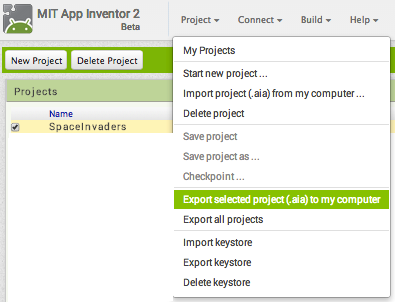
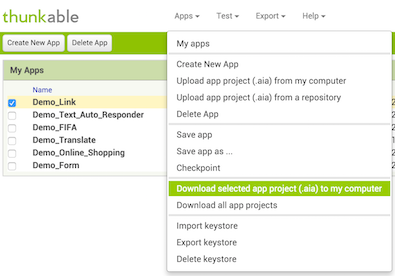
Updated Packaging and Sharing docs.

diff --git a/explore/ai2/google-play.html b/explore/ai2/google-play.html
@@ -18,7 +18,7 @@
 <link rel="shortlink" href="../node/435.html" />
 <link rel="canonical" href="google-play.html" />
 <meta name="Generator" content="Drupal 7 (http://drupal.org)" />
-  <title>Publishing Apps to Google Play (App Inventor 2) | Explore MIT App Inventor</title>
+  <title>Publishing Apps to Google Play with Thunkable | Explore Thunkable</title>
   <style>
 @import url("../modules/system/system.base0021.css?o1obu1");
 @import url("../modules/system/system.menus0021.css?o1obu1");
@@ -109,74 +109,7 @@
     <div id="page" class="container">
 
   
-  <header class="clearfix" role="banner">
-
-  <div id="top_bar">
-   <div id="branding">
-      <!--        <hgroup>
-                      <h1 id="site-name"><a href="/" title="Home page">Explore MIT App Inventor</a></h1>
-                            </hgroup>
-      -->
-              <div id="logo"><a href="../index-2.html" title="Home page"><img src="../sites/all/themes/appinventor/logo.png" alt="Explore MIT App Inventor logo"/></a></div>
-          
-    </div>
-      <div id="menu-bar" class="nav clearfix">
-      <nav id="block-superfish-1" class="block block-superfish block-odd block-count-1 block-region-menu-bar menu-wrapper clearfix" role="navigation">
-              <h2 class="block-title element-invisible element-invisible">! ACTIVE AI 2 MAIN MENU</h2>
-            <ul id="superfish-1" class="menu sf-menu sf-menu-simple-nav sf-horizontal sf-style-none sf-total-items-3 sf-parent-items-3 sf-single-items-0"><li id="menu-4230-1" class="first odd sf-item-1 sf-depth-1 sf-list-anchors sf-total-children-4 sf-parent-children-0 sf-single-children-4 menuparent"><a href="../about-us.html" title="" class="sf-depth-1 menuparent">About ▾</a><ul><li id="menu-4231-1" class="first odd sf-item-1 sf-depth-2 sf-list-anchors sf-no-children"><a href="../about-us.html" title="" class="sf-depth-2">About Us  </a></li><li id="menu-4234-1" class="middle even sf-item-2 sf-depth-2 sf-list-anchors sf-no-children"><a href="../our-team.html" title="" class="sf-depth-2">Our Team</a></li><li id="menu-5013-1" class="middle odd sf-item-3 sf-depth-2 sf-list-anchors sf-no-children"><a href="../research.html" title="Research related to MIT App Inventor" class="sf-depth-2">Research</a></li><li id="menu-4233-1" class="last even sf-item-4 sf-depth-2 sf-list-anchors sf-no-children"><a href="../sponsors.html" title="" class="sf-depth-2">Sponsors</a></li></ul></li><li id="menu-2893-1" class="middle even sf-item-2 sf-depth-1 sf-list-anchors sf-total-children-4 sf-parent-children-0 sf-single-children-4 menuparent"><a href="../news-events.html" title="" class="sf-depth-1 menuparent">News &amp; Stories ▾</a><ul><li id="menu-3040-1" class="first odd sf-item-1 sf-depth-2 sf-list-anchors sf-no-children"><a href="../news-events.html" title="" class="sf-depth-2">In The News</a></li><li id="menu-3039-1" class="middle even sf-item-2 sf-depth-2 sf-list-anchors sf-no-children"><a href="../stories.html" title="" class="sf-depth-2">Stories</a></li><li id="menu-4429-1" class="middle odd sf-item-3 sf-depth-2 sf-list-anchors sf-no-children"><a href="../team-blog.html" title="" class="sf-depth-2">Team Blog</a></li><li id="menu-4074-1" class="last even sf-item-4 sf-depth-2 sf-list-anchors sf-no-children"><a href="../app-month-gallery.html" title="Information about the App of the Month Program" class="sf-depth-2">App of the Month</a></li></ul></li><li id="menu-2894-1" class="last odd sf-item-3 sf-depth-1 sf-list-anchors sf-total-children-9 sf-parent-children-0 sf-single-children-9 menuparent"><a href="../resources.html" title="" class="sf-depth-1 menuparent">Resources ▾</a><ul><li id="menu-3041-1" class="first odd sf-item-1 sf-depth-2 sf-list-anchors sf-no-children"><a href="../get-started.html" title="" class="sf-depth-2">Get Started</a></li><li id="menu-3783-1" class="middle even sf-item-2 sf-depth-2 sf-list-anchors sf-no-children"><a href="../teach.html" title="" class="sf-depth-2">Teach</a></li><li id="menu-3104-1" class="middle odd sf-item-3 sf-depth-2 sf-list-anchors sf-no-children"><a href="../library.html" title="" class="sf-depth-2">Documentation</a></li><li id="menu-3036-1" class="middle even sf-item-4 sf-depth-2 sf-list-anchors sf-no-children"><a href="tutorials.html" title="Tutorials to learn about using MIT App Inventor" class="sf-depth-2">Tutorials</a></li><li id="menu-3174-1" class="middle odd sf-item-5 sf-depth-2 sf-list-anchors sf-no-children"><a href="../support.html" title="Information about App Inventor version 1" class="sf-depth-2">AI Classic (v1)</a></li><li id="menu-5012-1" class="middle even sf-item-6 sf-depth-2 sf-list-anchors sf-no-children"><a href="../books.html" title="" class="sf-depth-2">Books</a></li><li id="menu-3038-1" class="middle odd sf-item-7 sf-depth-2 sf-list-anchors sf-no-children"><a href="../resources.html" title="" class="sf-depth-2">Resources</a></li><li id="menu-3037-1" class="middle even sf-item-8 sf-depth-2 sf-list-anchors sf-no-children"><a href="https://groups.google.com/forum/#!forum/mitappinventortest" title="" class="sf-depth-2">Forums</a></li><li id="menu-3105-1" class="last odd sf-item-9 sf-depth-2 sf-list-anchors sf-no-children"><a href="support/troubleshooting.html" title="" class="sf-depth-2">Troubleshooting</a></li></ul></li></ul>  </nav>
-  </div>
-      <div class="region region-create">
-    <section id="block-block-21" class="block block-block block-odd block-count-2 block-region-create">
-  <div class="block-inner clearfix">
-              <h2 class="block-title">Create Button</h2>
-            <div class="block-content content">
-      <p><a href="http://ai2.appinventor.mit.edu/" target="new"><button style="font-size:120%">Create apps!</button></a></p>
-    </div>
-  </div>
-</section>
-  </div>
-    </div>
-      <div class="region region-header">
-    <section id="block-block-23" class="block block-block block-odd block-count-3 block-region-header">
-  <div class="block-inner clearfix">
-              <h2 class="block-title">Social Icons</h2>
-            <div class="block-content content">
-      <p style="float:left;margin: 10px 7px;"><a href="https://www.facebook.com/MITAppInventor"><img src="../sites/all/themes/appinventor/assets/images/flatSocialMediaIcons/facebook.png" style="width:25px;" /></a>    <a href="https://plus.google.com/communities/109900432278954380687"><img src="../sites/all/themes/appinventor/assets/images/flatSocialMediaIcons/google%2b.png" style="width:25px;" /></a>    <a href="https://twitter.com/mitappinventor"><img src="../sites/all/themes/appinventor/assets/images/flatSocialMediaIcons/twitter.png" style="width:25px;" /></a>    <a href="https://www.youtube.com/mitappinventor"><img src="../sites/all/themes/appinventor/assets/images/flatSocialMediaIcons/youtube.png" style="width:25px;" /></a>    <a href="https://groups.google.com/forum/#!forum/mitappinventortest"><img src="../sites/all/themes/appinventor/assets/images/flatSocialMediaIcons/googlegroups.png" style="width:25px;" /></a>    <a href="http://www.weibo.com/mitappinventor"><img src="../sites/all/themes/appinventor/assets/images/flatSocialMediaIcons/soc-wb.png" style="width:25px;" /></a>    <a href="http://mp.weixin.qq.com/s?__biz=MzAxODE1NTc1MQ==&amp;mid=201968203&amp;idx=1&amp;sn=01f8946b01a98b63e97e201a812dc844#rd"><img src="../sites/all/themes/appinventor/assets/images/flatSocialMediaIcons/soc-wc.png" style="width:25px;" /></a></p>
-    </div>
-  </div>
-</section>
-<div id="block-block-7" class="block block-block block-even block-count-4 block-region-header">
-  <div class="block-inner clearfix">
-                <div class="block-content content no-title">
-      
-<script>
-  (function() {
-    var cx = '005719495929270354943:tlvxrelje-e';
-    var gcse = document.createElement('script');
-    gcse.type = 'text/javascript';
-    gcse.async = true;
-    gcse.src = (document.location.protocol == 'https:' ? 'https:' : 'http:') +
-        '//www.google.com/cse/cse.js?cx=' + cx;
-    var s = document.getElementsByTagName('script')[0];
-    s.parentNode.insertBefore(gcse, s);
-  })();
-</script>
-<gcse:searchbox-only></gcse:searchbox-only>
-    </div>
-  </div>
-</div>
-<section id="block-block-31" class="block block-block block-odd block-count-5 block-region-header">
-  <div class="block-inner clearfix">
-              <h2 class="block-title">Top Headline Block</h2>
-            <div class="block-content content">
-      <p></p><center><strong><font size="3">App Inventor is now in <a href="../blogs/josh/2016/01/mit-0.html"><font color="#FEFE00">Brazilian</font> <font color="#007600">Portuguese!</font></a></font></strong></center>
-    </div>
-  </div>
-</section>
-  </div>
-    
-
-  </header>
+ <!--header goes here-->
   <div id="featured-block">
     </div>
   <div id="columns"class="no-menu-bar"><div class="columns-inner clearfix">
@@ -200,14 +133,14 @@
 
       
               <h1 class="article-title">
-                      Publishing Apps to Google Play (App Inventor 2)                  </h1>
+                      Publishing Apps to Google Play with Thunkable                 </h1>
       
       
     </header>
-    <span property="dc:title" content="Publishing Apps to Google Play (App Inventor 2)" class="rdf-meta element-hidden"></span>
+    <span property="dc:title" content="Publishing Apps to Google Play with Thunkable" class="rdf-meta element-hidden"></span>
   <div class="article-content">
   <div class="field field-name-body field-type-text-with-summary field-label-hidden view-mode-full"><div class="field-items"><div class="field-item even" property="content:encoded"><h2 class="ai-header">Uploading Apps to Google Play</h2>
-<p>Applications built with App Inventor can be uploaded to Google Play!</p>
+<p>Applications built with Thunkable can be uploaded to Google Play!</p>
 <h4 class="ai-header">Version Your App</h4>
 <p>Every app you publish must have a <code style="font-size: 12px;">VersionCode</code> and a <code style="font-size: 12px;">VersionName</code>. You can set these in the designer under the properties panel for the <code style="font-size: 12px;">Screen1</code> component.</p>
 <p><code style="font-size: 12px;">VersionCode</code> is an integer value that will not be visible to Google Play Store users. It is used by other apps to check if your app has been upgraded or downgraded. It defaults to 1 and should be increased by one with every successive change whether it is a major change or a minor change.</p>
@@ -215,7 +148,7 @@
 <p>You will need to increase the VersionCode and change the VersionName of your application when you upload a new version to the Play Store.</p>
 <h4 class="ai-header">Download <code style="font-size: 14px;">.apk</code></h4>
 <p>Once you are done making your app, you can download your Android .apk file as follows:</p>
-<ol><li>Navigate to the home screen of the app you want to download in App Inventor</li>
+<ol><li>Navigate to the home screen of the app you want to download in Thunkable</li>
 <li>Click the dropdown labled “Package for phone”</li>
 <li>Click “Download to This Computer”</li>
 </ol><p>This will prompt you to save the application somewhere. Once you have the .apk downloaded, you are ready to begin the publishing process.</p>
@@ -224,12 +157,12 @@
 <p>For more details, you may want to start with <a href="http://developer.android.com/guide/publishing/publishing.html">Introduction to Publishing on Google Play</a> and <a href="https://support.google.com/googleplay/android-developer/bin/answer.py?hl=en&amp;answer=113469&amp;topic=2365624&amp;ctx=topic">Google Support on Uploading to Google Play</a>.</p>
 <h4 class="ai-header">A Word about Backups</h4>
 <p>Once you publish your application in the Google Play Store, other people will now be depending upon you to fix bugs and otherwise maintain your application. It is therefore very important that you backup your application's source code. To do this, click on "Project--&gt;My Projects", check the box next to the name of your project and then select "Project--&gt;Export selected project (.aia) to my computer." This will download a zip file which contains your projects source code. Store it in a safe place!</p>
-<p>MIT and Google, which operate the App Engine service on which MIT App Inventor relies, make best efforts to ensure that MIT App Inventor does not lose projects. HOWEVER WE CAN OFFER NO GUARANTEE THAT DATA (LIKE YOUR PROJECTS) WILL NEVER BE LOST. IT IS IMPERATIVE THAT YOU MAKE YOUR OWN BACKUPS!</p>
+<p>Thunkable and Google, which operate the App Engine service on which Thunkable relies, make best efforts to ensure that Thunkable does not lose projects. HOWEVER WE CAN OFFER NO GUARANTEE THAT DATA (LIKE YOUR PROJECTS) WILL NEVER BE LOST. IT IS IMPERATIVE THAT YOU MAKE YOUR OWN BACKUPS!</p>
 <p><b>A Word about keystores:</b></p>
 <p>During the .apk building process your application is signed with a digital private key which is associated with your account. Whenever you build a new version this same key is used to sign the new version. When an android phone has an application installed on it, it remembers the key that was used to sign it. In order to install an updated version of an application, the new application must be signed by the same key. It is therefore important that you not lose this key!</p>
-<p>Your private digital key is stored in a keystore file. Normally the MIT App Inventor server will create this file when needed and store it for you so you do not need to worry about it. Although we do not anticipate losing your keystore file, we recommend that you back it up. From the designer under the "Projects" menu there is a choice labeled "Export Keystore". Select this option. This will download your keystore file to your local computer. Save it in a safe place. It should not be publicly readable as your private digital key is a secret which should not be shared.</p>
-<p>If you move your project to another App Inventor server, you will want to upload your keystore to that server (you will see that under "Projects" there is a "Import Keystore" option as well). You only need to do this if you are publishing .apk files to Google Play or if you intend to share your application with other people in general.</p>
-<p>IF YOUR keyfile IS LOST OR DELETED IT CANNOT BE RECOVERED. If you were to lose your project's source code, you could always re-enter it from scratch (this may be a lot of work, but is something you can do). NEITHER YOU NOR MIT CAN RECOVER A LOST keyfile. NO AMOUNT OF EFFORT WILL RECOVER IT, SO BE SURE TO BACK IT UP!!!</p>
+<p>Your private digital key is stored in a keystore file. Normally the Thunkable server will create this file when needed and store it for you so you do not need to worry about it. Although we do not anticipate losing your keystore file, we recommend that you back it up. From the designer under the "Projects" menu there is a choice labeled "Export Keystore". Select this option. This will download your keystore file to your local computer. Save it in a safe place. It should not be publicly readable as your private digital key is a secret which should not be shared.</p>
+<p>If you move your project to another Thunkable server, you will want to upload your keystore to that server (you will see that under "Projects" there is a "Import Keystore" option as well). You only need to do this if you are publishing .apk files to Google Play or if you intend to share your application with other people in general.</p>
+<p>IF YOUR keyfile IS LOST OR DELETED IT CANNOT BE RECOVERED. If you were to lose your project's source code, you could always re-enter it from scratch (this may be a lot of work, but is something you can do). NEITHER YOU NOR THUNKABLE CAN RECOVER A LOST keyfile. NO AMOUNT OF EFFORT WILL RECOVER IT, SO BE SURE TO BACK IT UP!!!</p>
 </div></div></div>  </div>
 
   

diff --git a/explore/ai2/share.html b/explore/ai2/share.html
@@ -18,7 +18,7 @@
 <link rel="shortlink" href="../node/425.html" />
 <link rel="canonical" href="share.html" />
 <meta name="Generator" content="Drupal 7 (http://drupal.org)" />
-  <title>Sharing and Packaging Apps | Explore MIT App Inventor</title>
+  <title>Sharing and Packaging Apps | Explore Thunkable</title>
   <style>
 @import url("../modules/system/system.base0021.css?o1obu1");
 @import url("../modules/system/system.menus0021.css?o1obu1");
@@ -108,75 +108,6 @@
   </div>
     <div id="page" class="container">
 
-  
-  <header class="clearfix" role="banner">
-
-  <div id="top_bar">
-   <div id="branding">
-      <!--        <hgroup>
-                      <h1 id="site-name"><a href="/" title="Home page">Explore MIT App Inventor</a></h1>
-                            </hgroup>
-      -->
-              <div id="logo"><a href="../index-2.html" title="Home page"><img src="../sites/all/themes/appinventor/logo.png" alt="Explore MIT App Inventor logo"/></a></div>
-          
-    </div>
-      <div id="menu-bar" class="nav clearfix">
-      <nav id="block-superfish-1" class="block block-superfish block-odd block-count-1 block-region-menu-bar menu-wrapper clearfix" role="navigation">
-              <h2 class="block-title element-invisible element-invisible">! ACTIVE AI 2 MAIN MENU</h2>
-            <ul id="superfish-1" class="menu sf-menu sf-menu-simple-nav sf-horizontal sf-style-none sf-total-items-3 sf-parent-items-3 sf-single-items-0"><li id="menu-4230-1" class="first odd sf-item-1 sf-depth-1 sf-list-anchors sf-total-children-4 sf-parent-children-0 sf-single-children-4 menuparent"><a href="../about-us.html" title="" class="sf-depth-1 menuparent">About ▾</a><ul><li id="menu-4231-1" class="first odd sf-item-1 sf-depth-2 sf-list-anchors sf-no-children"><a href="../about-us.html" title="" class="sf-depth-2">About Us  </a></li><li id="menu-4234-1" class="middle even sf-item-2 sf-depth-2 sf-list-anchors sf-no-children"><a href="../our-team.html" title="" class="sf-depth-2">Our Team</a></li><li id="menu-5013-1" class="middle odd sf-item-3 sf-depth-2 sf-list-anchors sf-no-children"><a href="../research.html" title="Research related to MIT App Inventor" class="sf-depth-2">Research</a></li><li id="menu-4233-1" class="last even sf-item-4 sf-depth-2 sf-list-anchors sf-no-children"><a href="../sponsors.html" title="" class="sf-depth-2">Sponsors</a></li></ul></li><li id="menu-2893-1" class="middle even sf-item-2 sf-depth-1 sf-list-anchors sf-total-children-4 sf-parent-children-0 sf-single-children-4 menuparent"><a href="../news-events.html" title="" class="sf-depth-1 menuparent">News &amp; Stories ▾</a><ul><li id="menu-3040-1" class="first odd sf-item-1 sf-depth-2 sf-list-anchors sf-no-children"><a href="../news-events.html" title="" class="sf-depth-2">In The News</a></li><li id="menu-3039-1" class="middle even sf-item-2 sf-depth-2 sf-list-anchors sf-no-children"><a href="../stories.html" title="" class="sf-depth-2">Stories</a></li><li id="menu-4429-1" class="middle odd sf-item-3 sf-depth-2 sf-list-anchors sf-no-children"><a href="../team-blog.html" title="" class="sf-depth-2">Team Blog</a></li><li id="menu-4074-1" class="last even sf-item-4 sf-depth-2 sf-list-anchors sf-no-children"><a href="../app-month-gallery.html" title="Information about the App of the Month Program" class="sf-depth-2">App of the Month</a></li></ul></li><li id="menu-2894-1" class="last odd sf-item-3 sf-depth-1 sf-list-anchors sf-total-children-9 sf-parent-children-0 sf-single-children-9 menuparent"><a href="../resources.html" title="" class="sf-depth-1 menuparent">Resources ▾</a><ul><li id="menu-3041-1" class="first odd sf-item-1 sf-depth-2 sf-list-anchors sf-no-children"><a href="../get-started.html" title="" class="sf-depth-2">Get Started</a></li><li id="menu-3783-1" class="middle even sf-item-2 sf-depth-2 sf-list-anchors sf-no-children"><a href="../teach.html" title="" class="sf-depth-2">Teach</a></li><li id="menu-3104-1" class="middle odd sf-item-3 sf-depth-2 sf-list-anchors sf-no-children"><a href="../library.html" title="" class="sf-depth-2">Documentation</a></li><li id="menu-3036-1" class="middle even sf-item-4 sf-depth-2 sf-list-anchors sf-no-children"><a href="tutorials.html" title="Tutorials to learn about using MIT App Inventor" class="sf-depth-2">Tutorials</a></li><li id="menu-3174-1" class="middle odd sf-item-5 sf-depth-2 sf-list-anchors sf-no-children"><a href="../support.html" title="Information about App Inventor version 1" class="sf-depth-2">AI Classic (v1)</a></li><li id="menu-5012-1" class="middle even sf-item-6 sf-depth-2 sf-list-anchors sf-no-children"><a href="../books.html" title="" class="sf-depth-2">Books</a></li><li id="menu-3038-1" class="middle odd sf-item-7 sf-depth-2 sf-list-anchors sf-no-children"><a href="../resources.html" title="" class="sf-depth-2">Resources</a></li><li id="menu-3037-1" class="middle even sf-item-8 sf-depth-2 sf-list-anchors sf-no-children"><a href="https://groups.google.com/forum/#!forum/mitappinventortest" title="" class="sf-depth-2">Forums</a></li><li id="menu-3105-1" class="last odd sf-item-9 sf-depth-2 sf-list-anchors sf-no-children"><a href="support/troubleshooting.html" title="" class="sf-depth-2">Troubleshooting</a></li></ul></li></ul>  </nav>
-  </div>
-      <div class="region region-create">
-    <section id="block-block-21" class="block block-block block-odd block-count-2 block-region-create">
-  <div class="block-inner clearfix">
-              <h2 class="block-title">Create Button</h2>
-            <div class="block-content content">
-      <p><a href="http://ai2.appinventor.mit.edu/" target="new"><button style="font-size:120%">Create apps!</button></a></p>
-    </div>
-  </div>
-</section>
-  </div>
-    </div>
-      <div class="region region-header">
-    <section id="block-block-23" class="block block-block block-odd block-count-3 block-region-header">
-  <div class="block-inner clearfix">
-              <h2 class="block-title">Social Icons</h2>
-            <div class="block-content content">
-      <p style="float:left;margin: 10px 7px;"><a href="https://www.facebook.com/MITAppInventor"><img src="../sites/all/themes/appinventor/assets/images/flatSocialMediaIcons/facebook.png" style="width:25px;" /></a>    <a href="https://plus.google.com/communities/109900432278954380687"><img src="../sites/all/themes/appinventor/assets/images/flatSocialMediaIcons/google%2b.png" style="width:25px;" /></a>    <a href="https://twitter.com/mitappinventor"><img src="../sites/all/themes/appinventor/assets/images/flatSocialMediaIcons/twitter.png" style="width:25px;" /></a>    <a href="https://www.youtube.com/mitappinventor"><img src="../sites/all/themes/appinventor/assets/images/flatSocialMediaIcons/youtube.png" style="width:25px;" /></a>    <a href="https://groups.google.com/forum/#!forum/mitappinventortest"><img src="../sites/all/themes/appinventor/assets/images/flatSocialMediaIcons/googlegroups.png" style="width:25px;" /></a>    <a href="http://www.weibo.com/mitappinventor"><img src="../sites/all/themes/appinventor/assets/images/flatSocialMediaIcons/soc-wb.png" style="width:25px;" /></a>    <a href="http://mp.weixin.qq.com/s?__biz=MzAxODE1NTc1MQ==&amp;mid=201968203&amp;idx=1&amp;sn=01f8946b01a98b63e97e201a812dc844#rd"><img src="../sites/all/themes/appinventor/assets/images/flatSocialMediaIcons/soc-wc.png" style="width:25px;" /></a></p>
-    </div>
-  </div>
-</section>
-<div id="block-block-7" class="block block-block block-even block-count-4 block-region-header">
-  <div class="block-inner clearfix">
-                <div class="block-content content no-title">
-      
-<script>
-  (function() {
-    var cx = '005719495929270354943:tlvxrelje-e';
-    var gcse = document.createElement('script');
-    gcse.type = 'text/javascript';
-    gcse.async = true;
-    gcse.src = (document.location.protocol == 'https:' ? 'https:' : 'http:') +
-        '//www.google.com/cse/cse.js?cx=' + cx;
-    var s = document.getElementsByTagName('script')[0];
-    s.parentNode.insertBefore(gcse, s);
-  })();
-</script>
-<gcse:searchbox-only></gcse:searchbox-only>
-    </div>
-  </div>
-</div>
-<section id="block-block-31" class="block block-block block-odd block-count-5 block-region-header">
-  <div class="block-inner clearfix">
-              <h2 class="block-title">Top Headline Block</h2>
-            <div class="block-content content">
-      <p></p><center><strong><font size="3">App Inventor is now in <a href="../blogs/josh/2016/01/mit-0.html"><font color="#FEFE00">Brazilian</font> <font color="#007600">Portuguese!</font></a></font></strong></center>
-    </div>
-  </div>
-</section>
-  </div>
-    
-
-  </header>
   <div id="featured-block">
     </div>
   <div id="columns"class="no-menu-bar"><div class="columns-inner clearfix">
@@ -214,21 +145,21 @@ font:strong; font-style:italic; font-weight:bold;
 }
 
 /*--><!]]>*/
-</style><h3>You can share your app in an <em>executable</em> form (.apk) that can be installed on a device, or in <em>source</em> code form (.aia) that can be loaded into App Inventor and remixed. You can also distribute your app on the <a href="google-play.html">Google Play Store</a></h3>
-<h3 class="”ai-header”">Sharing your app so that others can remix (.aia file)</h3>
-<p>Make sure you are viewing the list of all of your projects (if you are not, choose Projects | My Projects).  Select the project you wish to share by checking the box next to it.  Choose <strong>Project | Export selected project (.aia) to my computer</strong> to export the source code (blocks) for your project. The source code is downloaded in a .aia file. </p>
+</style><h3>You can share your app in an <em>executable</em> form (.apk) that can be installed on a device, or in <em>source</em> code form (.aia) that can be loaded into Thunkable and changed. You can also distribute your app on the <a href="google-play.html">Google Play Store</a></h3>
+<h3 class="”ai-header”">Sharing your app so that others can change it (.aia file)</h3>
+<p>Make sure you are viewing the list of all of your apps (if you are not, choose Apps | My Apps).  Select the project you wish to share by checking the box next to it.  Choose <strong>Apps | Download selected app project (.aia) to my computer</strong> to export the source code (blocks) for your app. The source code is downloaded in a .aia file. </p>
 <div style="text-align:center;"><img src="../sites/all/files/SetupAI2/sharing_aias.png" /></div>
-<p>If you send it to a friend, they can open it with <strong>Project | Import project (.aia) from my computer</strong>.</p>
+<p>If you send it to a friend, they can open it with <strong>Apps | Upload app project (.aia) from my computer</strong>.</p>
 <div style="text-align:center;"><img src="../sites/all/files/SetupAI2/sharing_aias2.png" /></div>
 <h3 class="”ai-header”">Sharing your app for others to install on their phone/tablet (.apk file)</h3>
-<p>Package the app (.apk file) by going to the "Build" menu on the App Inventor toolbar.</p>
-<div style="text-align:center;"><img src="../sites/all/files/SetupAI2/Build_Dropdown.jpg" /></div>
+<p>Package the app (.apk file) by going to the "Export" menu on the Thunkable toolbar.</p>
+<div style="text-align:center;"><img src="../sites/all/files/SetupAI2/Build_Dropdown.png" /></div>
 <p>Select "App (save .apk to my computer)." A pop-up box should alert you that your download has begun. Note: The other option (provide QR code for .apk) produces a scannable QR code that will download the app for two hours. You can share this code with others, but they have to use it within 2 hours of your generating it.</p>
-<div style="text-align:center;"><img src="../sites/all/files/SetupAI2/Build_Popup.jpg" /></div>
+<div style="text-align:center;"><img src="../sites/all/files/SetupAI2/Build_Popup.png" /></div>
 <p>Once the build completes, you can email the app (".apk" file) to your friends who can install it by opening the email from their phone. If you want to distribute it more widely, you can upload it to a website that both you and your friend can access. You can also distribute your app on the <a href="google-play.html">Google Play Store</a>.</p>
-<p></p><p>NOTE: Anyone installing your app (which is an ".apk" file) will need to change the setting on their phone to allow installation of non-market applications:</p>
+<p></p><p>NOTE: Anyone installing your app (which is an ".apk" file) directly, instead of from the Play Store, will need to change the setting on their phone to allow installation of non-market applications:</p>
 <p>To find this setting on versions of Android prior to 4.0, go to "Settings &gt; Applications" and then check the box next to "Unknown Sources". For devices running Android 4.0 or above, go to "Settings &gt; Security" or "Settings &gt; Security &amp; Screen Lock" and then check the box next to "Unknown Sources" and confirm your choice.</p>
-<p>Note: The source code (.aia) files are not executable Android programs -- those are .apk files. The source code is also not Java SDK code -- it can only be loaded into App Inventor.</p>
+<p>Note: The source code (.aia) files are not executable Android programs -- those are .apk files. The source code is also not Java SDK code -- it can only be loaded into Thunkable or MIT App Inventor.</p>
 </div></div></div>  </div>
 
   

diff --git a/explore/library.html b/explore/library.html
@@ -18,7 +18,7 @@
 <link rel="shortlink" href="node/284.html" />
 <link rel="canonical" href="library.html" />
 <meta name="Generator" content="Drupal 7 (http://drupal.org)" />
-  <title>The MIT App Inventor Library: Documentation &amp; Support | Explore MIT App Inventor</title>
+  <title>The Thunkable Library: Documentation &amp; Support | Explore Thunkable</title>
   <style>
 @import url("modules/system/system.base0021.css?o1obu1");
 @import url("modules/system/system.menus0021.css?o1obu1");
@@ -136,9 +136,9 @@
       
       
     </header>
-    <span property="dc:title" content="The MIT App Inventor Library: Documentation &amp; Support" class="rdf-meta element-hidden"></span>
+    <span property="dc:title" content="The Thunkable Library: Documentation &amp; Support" class="rdf-meta element-hidden"></span>
   <div class="article-content">
-  <div class="field field-name-body field-type-text-with-summary field-label-hidden view-mode-full"><div class="field-items"><div class="field-item even" property="content:encoded"><h3>Getting Started with App Inventor</h3>
+  <div class="field field-name-body field-type-text-with-summary field-label-hidden view-mode-full"><div class="field-items"><div class="field-item even" property="content:encoded"><h3>Getting Started with Thunkable</h3>
 <table style="width:600px;margin:0 auto"><tbody><tr><td>
 <ul style="list-style-type: none;font-size:+1;"><li style="margin:.5em 10% .5em 0"><a href="ai2/setup-device-wifi.html">Connect phone/tablet for live testing as you build</a></li>
 <li style="margin:.5em 10% .5em 0"><a href="designer-blocks.html"><strong>Overview</strong> of Designer &amp; Blocks Editor</a></li>
@@ -153,7 +153,7 @@
 </p></ul></td>
 
 </tr></tbody></table><h3>Documentation</h3>
-<p>Helpful explanations for all of the components and blocks in App Inventor</p>
+<p>Helpful explanations for all of the components and blocks in Thunkable</p>
 <table style="width:600px;margin:0 auto"><tbody><tr><td>
 <ul style="list-style-type: none;font-size:+1;"><li style="margin:.5em 10% .5em 0"><a href="ai2/support/blocks.html">Built-in Blocks Documentation</a></li>
 <li style="margin:.5em 10% .5em 0"><a href="http://app.thunkable.com/reference/components/">Component Documentation</a></li>
